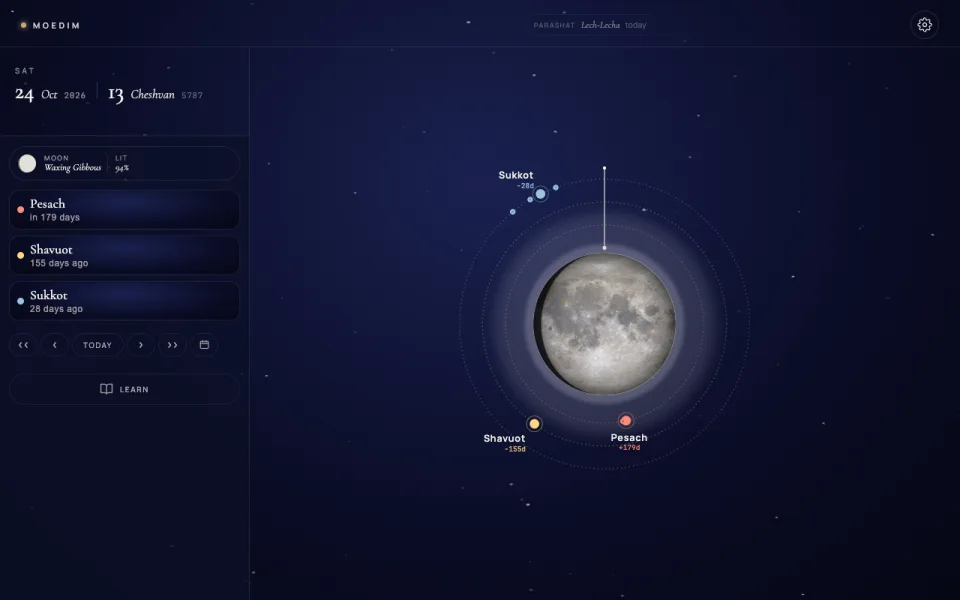
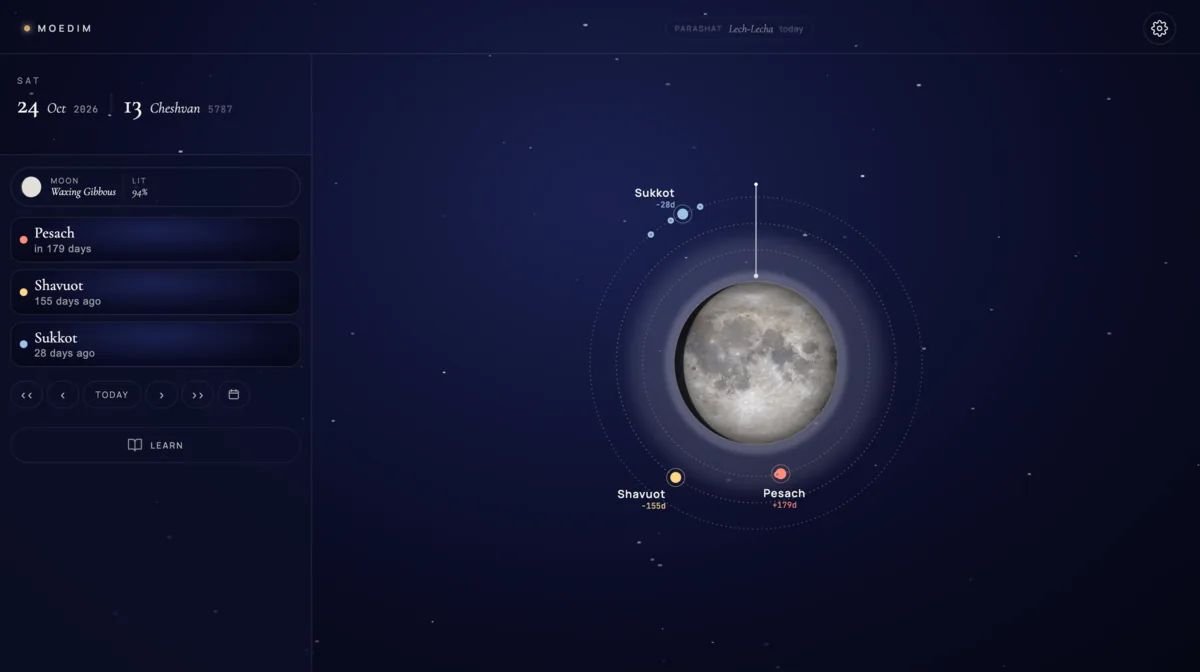
Use hand-picked screenshots and 16:9 thumbnails
Sugar Rush, React for Ember Engineers, Moedim, Synkrisis and Imprint
now show screenshots of their most interesting screens. Cards and
scripts/shots.sh move to 16:9 to match. img/projects/incoming/ is a
git-ignored drop folder for new screenshots.

diff --git a/index.html b/index.html
@@ -94,7 +94,7 @@ section{padding-bottom:96px;scroll-margin-top:40px}
 .lede{margin:-16px 0 32px;color:var(--ink-2);max-width:56ch}
 .sp-list{list-style:none;margin:0;padding:0;display:grid;grid-template-columns:repeat(auto-fill,minmax(260px,1fr));gap:48px 32px}
 .sp{display:flex;flex-direction:column;min-width:0}
-.sp .shot{display:block;position:relative;aspect-ratio:16/10;margin:0 0 18px;border:1px solid var(--ink);border-radius:3px;overflow:hidden;background:var(--paper-2);box-shadow:4px 4px 0 var(--rule);transform:rotate(var(--tilt,-.6deg));transition:transform .3s cubic-bezier(.2,.8,.2,1),box-shadow .3s}
+.sp .shot{display:block;position:relative;aspect-ratio:16/9;margin:0 0 18px;border:1px solid var(--ink);border-radius:3px;overflow:hidden;background:var(--paper-2);box-shadow:4px 4px 0 var(--rule);transform:rotate(var(--tilt,-.6deg));transition:transform .3s cubic-bezier(.2,.8,.2,1),box-shadow .3s}
 .sp:nth-child(even) .shot{--tilt:.6deg}
 .sp:nth-child(3n) .shot{--tilt:-.3deg}
 .sp .shot img{display:block;width:100%;height:100%;object-fit:cover;object-position:top}
@@ -212,31 +212,31 @@ footer{border-top:1px solid var(--rule);padding:24px 0 8px;font:400 12px var(--m
       <p class="lede">Built for fun, usually to try an idea or a stack I don't use at work.</p>
       <ul class="sp-list">
         <li class="sp">
-          <a class="shot" href="https://github.com/linearza/react-for-ember-engineers" rel="noopener" tabindex="-1" aria-hidden="true"><img src="img/projects/learnreact.webp" alt="" width="960" height="600" loading="lazy" decoding="async"></a>
+          <a class="shot" href="https://github.com/linearza/react-for-ember-engineers" rel="noopener" tabindex="-1" aria-hidden="true"><img src="img/projects/learnreact.webp" alt="" width="1200" height="675" loading="lazy" decoding="async"></a>
           <div class="hd"><h3>React for Ember Engineers</h3><span class="meta"><a class="dom" href="https://github.com/linearza/react-for-ember-engineers" rel="noopener">GitHub ↗</a></span></div>
           <p>A 15-day course, an hour a day, for engineers who know modern Ember and are new to React. Each day's exercises build part of one issue tracker, checked by tests that run as you save. Daily quizzes use spaced repetition, and their wrong answers are the guesses an Ember engineer would make.</p>
           <span class="stk">React 19 · TypeScript · TanStack Query · React Router · Vitest · Testing Library</span>
         </li>
         <li class="sp">
-          <a class="shot" href="https://sugarrush.linear.co.za" rel="noopener" tabindex="-1" aria-hidden="true"><img src="img/projects/sugarrush.webp" alt="" width="960" height="600" loading="lazy" decoding="async"></a>
+          <a class="shot" href="https://sugarrush.linear.co.za" rel="noopener" tabindex="-1" aria-hidden="true"><img src="img/projects/sugarrush.webp" alt="" width="1200" height="675" loading="lazy" decoding="async"></a>
           <div class="hd"><h3>Sugar Rush</h3><span class="meta"><a class="dom" href="https://sugarrush.linear.co.za" rel="noopener">sugarrush.linear.co.za ↗</a></span></div>
           <p>A top-down 3D game about keeping one woman's blood sugar steady through a busy week. Eat real meals on time, see through foods that only look healthy, dodge colleagues with cake and get her to bed on time. Plays in the browser, or offline as a desktop app.</p>
           <span class="stk">React Three Fiber · TypeScript · Electron · SQLite · Vitest · Playwright</span>
         </li>
         <li class="sp">
-          <a class="shot" href="https://sitter.linear.co.za" rel="noopener" tabindex="-1" aria-hidden="true"><img src="img/projects/sitter.webp" alt="" width="960" height="600" loading="lazy" decoding="async"></a>
+          <a class="shot" href="https://sitter.linear.co.za" rel="noopener" tabindex="-1" aria-hidden="true"><img src="img/projects/sitter.webp" alt="" width="1200" height="675" loading="lazy" decoding="async"></a>
           <div class="hd"><h3>Stellenberg Sitter</h3><span class="meta"><a class="dom" href="https://sitter.linear.co.za" rel="noopener">sitter.linear.co.za ↗</a></span></div>
           <p>A booking app for a house sitter and dog walker. Customers pick a service and days on a live availability calendar and see the price as they go, with no account needed. The owner confirms from an installable app with push alerts, and customers pay by EFT or PayFast.</p>
           <span class="stk">SvelteKit · Svelte 5 · SQLite · Web Push · Satori share images · Vitest</span>
         </li>
         <li class="sp">
-          <a class="shot" href="https://moedim.linear.co.za" rel="noopener" tabindex="-1" aria-hidden="true"><img src="img/projects/moedim.webp" alt="" width="960" height="600" loading="lazy" decoding="async"></a>
+          <a class="shot" href="https://moedim.linear.co.za" rel="noopener" tabindex="-1" aria-hidden="true"><img src="img/projects/moedim.webp" alt="" width="1200" height="675" loading="lazy" decoding="async"></a>
           <div class="hd"><h3>Moedim</h3><span class="meta"><a class="dom" href="https://moedim.linear.co.za" rel="noopener">moedim.linear.co.za ↗</a></span></div>
           <p>A Hebrew calendar and moon-phase calculator. Phases are calculated astronomically, and feast days and Hebrew dates are derived from them.</p>
           <span class="stk">React · TypeScript · Vite · PWA</span>
         </li>
         <li class="sp">
-          <a class="shot" href="https://synkrisis.linear.co.za" rel="noopener" tabindex="-1" aria-hidden="true"><img src="img/projects/synkrisis.webp" alt="" width="960" height="600" loading="lazy" decoding="async"></a>
+          <a class="shot" href="https://synkrisis.linear.co.za" rel="noopener" tabindex="-1" aria-hidden="true"><img src="img/projects/synkrisis.webp" alt="" width="1200" height="675" loading="lazy" decoding="async"></a>
           <div class="hd"><h3>Synkrisis</h3><span class="meta"><a class="dom" href="https://synkrisis.linear.co.za" rel="noopener">synkrisis.linear.co.za ↗</a></span></div>
           <p>What 21 Christian traditions believe, compared side by side, topic by topic. Every claim cites the tradition's own confessional sources, and the content build fails on a missing citation, a source from the wrong tradition or an empty cell.</p>
           <span class="stk">React · TypeScript · Zod-validated content build · Vitest · PWA</span>
@@ -248,13 +248,13 @@ footer{border-top:1px solid var(--rule);padding:24px 0 8px;font:400 12px var(--m
           <span class="stk">Node · Express · EJS · Alpine.js · Tailwind · SQLite · WebSockets</span>
         </li>
         <li class="sp">
-          <a class="shot" href="https://imprint.linear.co.za" rel="noopener" tabindex="-1" aria-hidden="true"><img src="img/projects/imprint.webp" alt="" width="960" height="600" loading="lazy" decoding="async"></a>
+          <a class="shot" href="https://imprint.linear.co.za" rel="noopener" tabindex="-1" aria-hidden="true"><img src="img/projects/imprint.webp" alt="" width="1200" height="675" loading="lazy" decoding="async"></a>
           <div class="hd"><h3>Imprint</h3><span class="meta"><a class="dom" href="https://imprint.linear.co.za" rel="noopener">imprint.linear.co.za ↗</a><span class="tag">Invite only</span></span></div>
           <p>A speed reader that shows text full-screen, one word at a time. Articles arrive from a bookmarklet, a paste box or an iOS Shortcut, so the server never fetches a URL itself, which rules out server-side request forgery entirely. Passkey sign-in; access is by request.</p>
           <span class="stk">SvelteKit · SQLite · WebAuthn passkeys · Tailwind · Playwright</span>
         </li>
         <li class="sp">
-          <a class="shot" href="https://twang.linear.co.za" rel="noopener" tabindex="-1" aria-hidden="true"><img src="img/projects/twang.webp" alt="" width="960" height="600" loading="lazy" decoding="async"></a>
+          <a class="shot" href="https://twang.linear.co.za" rel="noopener" tabindex="-1" aria-hidden="true"><img src="img/projects/twang.webp" alt="" width="1200" height="675" loading="lazy" decoding="async"></a>
           <div class="hd"><h3>Twang</h3><span class="meta"><a class="dom" href="https://twang.linear.co.za" rel="noopener">twang.linear.co.za ↗</a></span></div>
           <p>A guided tuner for nylon and steel-string guitars. It listens through your microphone, works out which string you're playing and moves on to the next once it locks. Installable and works offline.</p>
           <span class="stk">React · Web Audio API autocorrelation · Vite · PWA</span>

diff --git a/CLAUDE.md b/CLAUDE.md
@@ -11,11 +11,11 @@ Projects are cards in `<ul class="sp-list">` under `#projects` in `index.html`, 
    ```sh
    scripts/shots.sh <slug> https://<sub>.linear.co.za
    ```
-   This writes `img/projects/<slug>.webp` (960×600). Open the image and check it: no personal data (names, emails, financial info), not a blank or loading screen. Mention anything doubtful to the user.
+   This writes `img/projects/<slug>.webp` (1200×675, 16:9). Better still, ask the user for their own screenshot of the most interesting screen (they can drop it in the git-ignored `img/projects/incoming/`); convert it with `magick in.png -resize 1200x -quality 82 img/projects/<slug>.webp`. Open the image and check it: no personal data (names, emails, financial info), not a blank or loading screen. Mention anything doubtful to the user.
 3. **Add the card**, copying an existing one:
    ```html
    <li class="sp">
-     <a class="shot" href="https://x.linear.co.za" rel="noopener" tabindex="-1" aria-hidden="true"><img src="img/projects/x.webp" alt="" width="960" height="600" loading="lazy" decoding="async"></a>
+     <a class="shot" href="https://x.linear.co.za" rel="noopener" tabindex="-1" aria-hidden="true"><img src="img/projects/x.webp" alt="" width="1200" height="675" loading="lazy" decoding="async"></a>
      <div class="hd"><h3>Name</h3><span class="meta"><a class="dom" href="https://x.linear.co.za" rel="noopener">x.linear.co.za ↗</a></span></div>
      <p>Two or three plain sentences: what it does, then one interesting engineering detail.</p>
      <span class="stk">Framework · Language · Storage · Notable libs</span>
@@ -23,6 +23,6 @@ Projects are cards in `<ul class="sp-list">` under `#projects` in `index.html`, 
    ```
    - **Private project** (no public URL): replace the `<a class="shot">` with `<div class="shot locked" aria-hidden="true"><b>Name</b><i>No screenshots</i></div>`, drop the domain link and add `<span class="tag">Private</span>` in `.meta`. Never screenshot private projects.
    - **Restricted access**: keep the link and add a tag, e.g. `<span class="tag">Invite only</span>`.
-   - **No hosted site, public repo**: link the GitHub repo with `GitHub ↗` as the link text. For the thumbnail, a repo's own banner or social preview often beats a screenshot; crop it to 16:10 and save it as 960×600 WebP (`magick in.png -gravity center -crop <w>x<h>+0+0 +repage -resize 960x600 out.webp`, plus `-filter point` for pixel art).
+   - **No hosted site, public repo**: link the GitHub repo with `GitHub ↗` as the link text. For the thumbnail, a repo's own banner or social preview often beats a screenshot; crop it to 16:9 and save it as 1200×675 WebP (`magick in.png -gravity center -crop <w>x<h>+0+0 +repage -resize 1200x675 out.webp`, plus `-filter point` for pixel art).
 4. **Copy rules**: no metrics, employer names or personal details; the site is brand-only. Plain, specific sentences, no marketing words.
 5. Run `scripts/check.sh`, view the page at desktop and phone widths, add a `CHANGELOG.md` entry, and open a PR.

diff --git a/CHANGELOG.md b/CHANGELOG.md
@@ -2,7 +2,7 @@
 
 ## 2.2.0 — 2026-10-24
 
-- Side projects are now a grid of cards, each with a screenshot thumbnail that tilts slightly and straightens on hover. Private projects get a hatched placeholder instead of a screenshot.
+- Side projects are now a grid of cards, each with a 16:9 screenshot thumbnail that tilts slightly and straightens on hover. Private projects get a hatched placeholder instead of a screenshot.
 - Added Sugar Rush, Stellenberg Sitter and React for Ember Engineers (linked to its GitHub repo).
 - New `scripts/shots.sh` captures thumbnails into `img/projects/` (Playwright with the installed Chrome, then `cwebp`).
 
